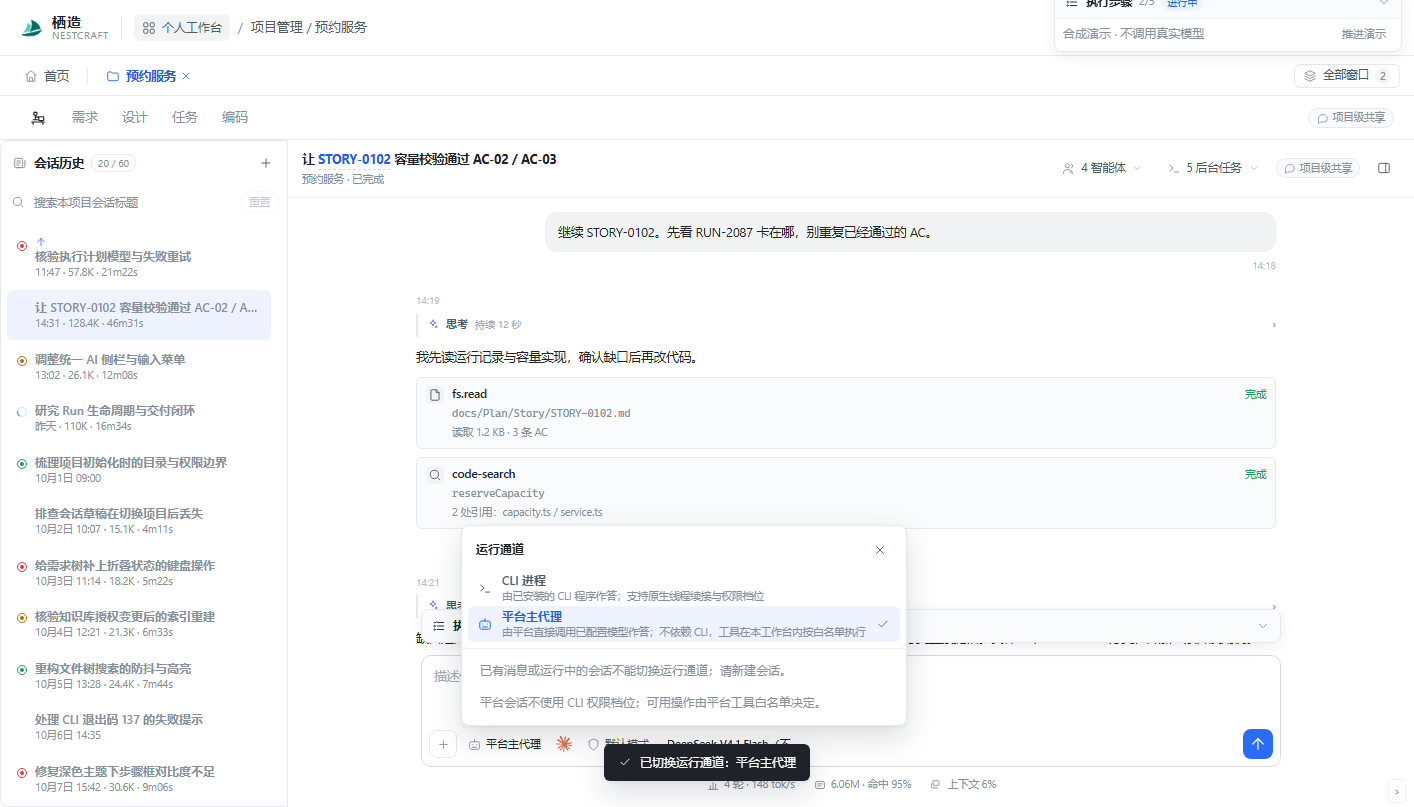
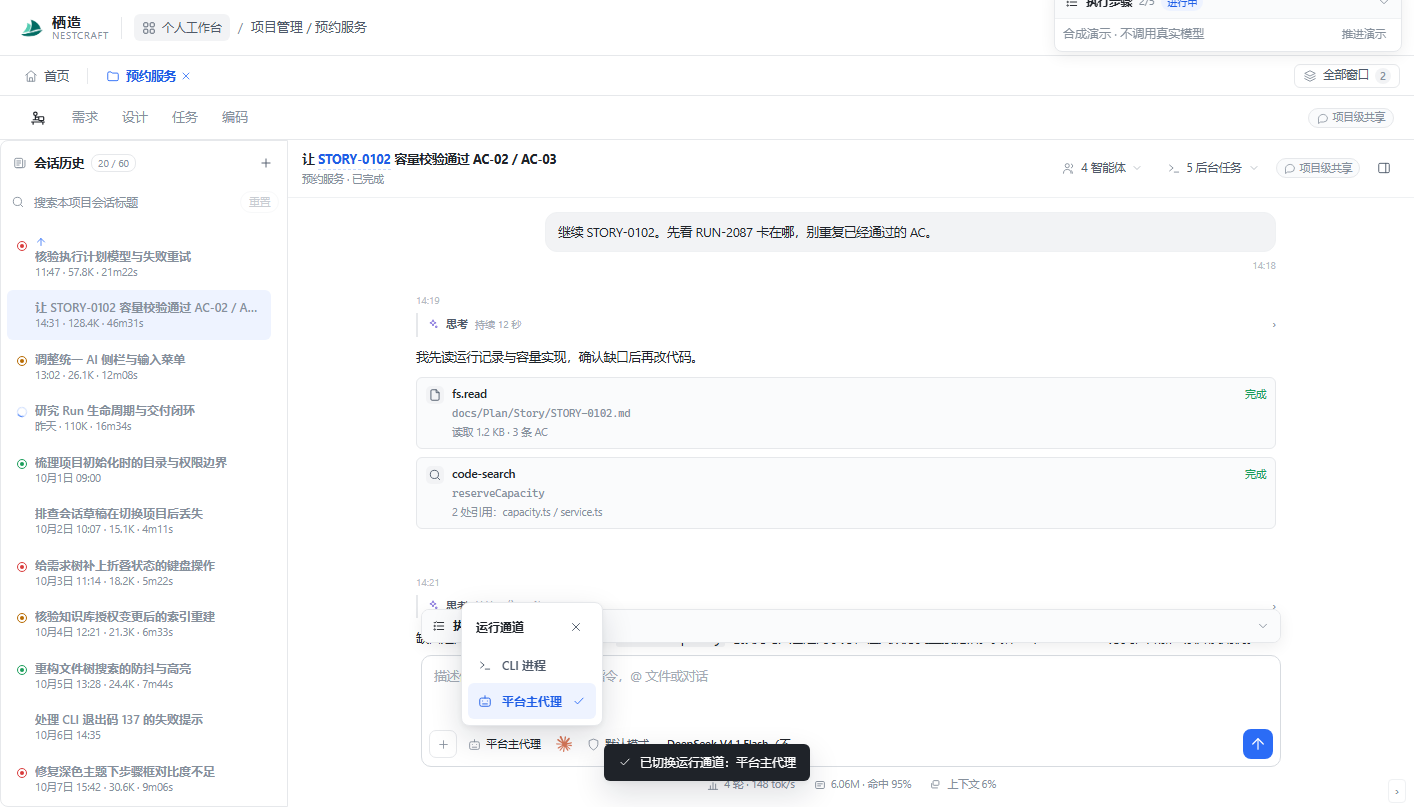
design(UI-CR069-v2): 用户确认并要求去除弹层说明文字——修订设计并重拍截图
- 弹层只保留通道名/选中态/禁用态；平台不可用仅标「不可用」+ 设置入口，无长文案
- 重拍 4 张截图覆盖弹层默认/平台选中/不可用/深色
- 准入文档与资源索引更新 v2 版本、hash 与确认记录（含前端编码授权依据）

Changed region(s): [[0.3423, 0.6506, 0.6223, 0.9294]]

diff --git a/docs/UI/文档/设计资源索引.html b/docs/UI/文档/设计资源索引.html
@@ -16,7 +16,7 @@
 <div class="shell">
 <aside aria-label="设计资源导航"><strong>项目设计</strong><a class="nav active" href="#current">当前评审</a><a class="nav" href="#requirements">需求与方案</a><a class="nav" href="#tasks">任务工作台</a><a class="nav" href="#results">交付与证据</a><a class="nav" href="#history">历史设计</a><a class="nav" href="../../README.md">返回文档导航</a></aside>
 <main>
-<section id="cr069" class="hero"><span class="tag">UI-CR069-v1 · 仅设计 · 待用户确认</span><h2>运行通道选择（CLI 进程 / 平台主代理）</h2><p>2026-11-23 补 CR-069 会话通道设计：AI 侧栏输入区新增「运行通道」chip 与弹层，默认 <b>CLI 进程</b>；「平台主代理」由平台直接调用已配置模型作答，不依赖 CLI 安装，工具在本工作台内按白名单执行。覆盖 SC-069-01（选择与状态：默认/已选/平台不可用禁用+引导/运行中锁定/切换限制说明）、SC-069-02（无平台模型时引导 设置 → 模型供应商，不出现「请先安装 CLI」）、SC-069-03（平台会话下 CLI 与权限模式 chip 禁用并注明边界由平台工具白名单决定；模型候选取消按 CLI 协议过滤）。<b>SC-069-07 长会话上下文仍未定义</b>；本轮仅设计资源，正式前端未改，用户确认前前端开发维持阻塞。资源指纹（sha256 前16）：cr069.js 05a022c8340f390f、cr069.css 23c0d669e95e1ab9、ai.js 6d1c37183c9de8d0、workbench.js 2092f407dd50eb56、index.html 824ecb920d1f7846；headless Edge 实拍 6 状态截图见 UI-CR069-截图/。</p><div class="actions"><a class="btn primary" href="../仿真原型UI.html">唯一原型入口 → AI 侧栏 → 运行通道</a><a class="btn" href="UI-CR069-平台主代理会话准入.md">版本、场景与准入</a><a class="btn" href="../../PRD/CR-069-平台主代理运行时与受管执行接入.md">需求与边界</a><a class="btn" href="../../LLD/LLD-CR069-平台主代理运行时实现.md">实现方案</a><a class="btn" href="../../Plan/Feature/FEAT-025-平台主代理运行时.md">FEAT-025</a></div></section>
+<section id="cr069" class="hero"><span class="tag">UI-CR069-v2 · 设计已确认 · 前端实现中</span><h2>运行通道选择（CLI 进程 / 平台主代理）</h2><p>2026-11-23 用户确认并要求去除说明文字（v2）。补 CR-069 会话通道设计：AI 侧栏输入区新增「运行通道」chip 与弹层，默认 <b>CLI 进程</b>；「平台主代理」由平台直接调用已配置模型作答，不依赖 CLI 安装，工具在本工作台内按白名单执行。覆盖 SC-069-01（选择与状态：默认/已选/平台不可用禁用+引导/运行中锁定/切换限制说明）、SC-069-02（无平台模型时引导 设置 → 模型供应商，不出现「请先安装 CLI」）、SC-069-03（平台会话下 CLI 与权限模式 chip 禁用并注明边界由平台工具白名单决定；模型候选取消按 CLI 协议过滤）。<b>SC-069-07 长会话上下文仍未定义</b>；本轮仅设计资源，正式前端未改，用户确认前前端开发维持阻塞。资源指纹（sha256 前16）：cr069.js 98d281ce163e7693、cr069.css fd6dad065de3559c（v2 去说明文字）、ai.js 6d1c37183c9de8d0、workbench.js 2092f407dd50eb56、index.html 824ecb920d1f7846；headless Edge 实拍 6 状态截图见 UI-CR069-截图/。</p><div class="actions"><a class="btn primary" href="../仿真原型UI.html">唯一原型入口 → AI 侧栏 → 运行通道</a><a class="btn" href="UI-CR069-平台主代理会话准入.md">版本、场景与准入</a><a class="btn" href="../../PRD/CR-069-平台主代理运行时与受管执行接入.md">需求与边界</a><a class="btn" href="../../LLD/LLD-CR069-平台主代理运行时实现.md">实现方案</a><a class="btn" href="../../Plan/Feature/FEAT-025-平台主代理运行时.md">FEAT-025</a></div></section>
 <section id="cr068" class="hero"><span class="tag">UI-CR068-v1 · 仅需求／设计 · 部分已验证</span><h2>界面评审差异与会话可用性</h2><p>2026-11-23 的30项评审：模型获取单列复选框、思考关闭隐藏参数、全量折叠映射、K/M容量、供应商保存收起、设置右上X与右侧按钮组、CLI折叠/候选、项目当前图标、有序消息/思考/工具、计划默认折叠并贴输入上方、固定输入与统计复用。静态核查确认配置刷新、协议选路、计划语义等缺口；第二轮发送、示例文件失效和SSH等待仍待复现。<strong>仅更新设计稿，正式软件未修复；完整状态与软件视觉未验证</strong>，不以多数断言或截图放行全部范围。</p><div class="actions"><a class="btn primary" href="../仿真原型UI.html">唯一原型入口</a><a class="btn" href="UI-CR068-界面评审差异与会话可用性.md">版本与场景覆盖</a><a class="btn" href="../../PRD/CR-068-界面评审差异与会话可用性补正.md">完整30项</a><a class="btn" href="../../Test/REPORT-CR068-界面评审诊断与设计验证.md">诊断与实际验证</a><a class="btn" href="../../LLD/LLD-CR068-分特性修复工作包.md">待授权工作包</a></div></section>
 <section id="feat004" class="hero"><span class="tag">UI-FEAT-004-v1 · 已接入只读 · 待验收</span><h2>同步批次（只读）</h2><p>2026-11-23 双向同步 M0 已具备共同基线、批次、条件写回、崩溃对账与行级差异；补任务页「同步」视图：空态、批次列表、目标对账（冲突／已应用／待应用）、当前与提案两栏差异、冲突横幅。软件已接入并读取 `sync_batch_list/get` 与 `sync_target_preview`；「重新对账」可用，「完成并发布基线」禁用。1440 与 390 对照完成，修复窄屏目标列表被压缩；深色、真实 Tauri 数据与自动合并未验证。</p><div class="actions"><a class="btn" href="../sync-batches/index.html">设计稿</a><a class="btn" href="UI-FEAT-004-同步批次.md">版本、场景与资源 hash</a><a class="btn" href="../../Test/REPORT-FEAT004-同步视图只读接入验证.md">接入验证与未验证项</a><a class="btn" href="../../Plan/Feature/FEAT-004-设计评审与跨文档同步.md">FEAT-004</a></div></section>
 <section id="feat019" class="hero"><span class="tag">UI-FEAT-019-v1 · 已接入只读 · 待验收</span><h2>任务执行状态（只读）</h2><p>2026-11-23 执行账本与同步 M0 已实现，补任务页<b>只读</b>状态设计：空态、批次／任务列表、任务详情与事件时间线、旧 writer 未确认停止的阻塞态、同步第三方冲突态。状态徽章覆盖排队／等待依赖／运行中／验证中／已完成／阻塞／失败；阻塞与冲突均不提供「强制恢复／自动合并」。设计稿浅／深 1440 与窄屏 390 各一张；软件侧 `TasksPane` 已读取执行账本，1440 浅色与 390 窄屏对照完成，差异（真实壳层、窄屏详情抽屉、事件换行）已登记。<b>派发、暂停、审批等控制交互不在本稿范围</b>，深色与真实 Tauri 数据未验证。</p><div class="actions"><a class="btn" href="../task-execution-status/index.html">设计稿</a><a class="btn" href="UI-FEAT-019-任务执行状态.md">版本、场景与资源 hash</a><a class="btn" href="../../Test/REPORT-FEAT019-任务页只读接入验证.md">接入验证与未验证项</a><a class="btn" href="../../Plan/Feature/FEAT-019-依赖调度与受管执行.md">FEAT-019</a><a class="btn" href="../../Plan/Story/STORY-068-单特性执行会话与范围门禁.md">STORY-068</a></div></section>

diff --git a/docs/UI/workbench-v4/cr069.js b/docs/UI/workbench-v4/cr069.js
@@ -54,23 +54,19 @@ window.CR069 = (function () {
     return `<button class="ai-chip runner${isPlatform() ? " platform" : ""}" id="ai-anchor-runner" data-ai-anchor="runner" data-act="ai-runner" aria-haspopup="dialog" aria-controls="ai-popup-runner" aria-expanded="${store.aiPop === "runner"}" ${busy ? 'disabled aria-disabled="true"' : ""} title="${esc(title)}" aria-label="切换运行通道：${esc(label)}">${icon("bot", "ico-14")}${esc(label)}</button>`;
   }
 
-  /* SC-069-01/02/03：运行通道弹层。默认 cli；平台不可用给设置引导，不出现“请先安装 CLI”类误导。 */
+  /* SC-069-01/02/03：运行通道弹层（v2）。默认 cli；按用户要求不在界面上放说明文字——
+     状态只用选中/禁用/「不可用」表达；不可用时保留最小引导入口，不写长文案。 */
   function runnerPopup() {
     const ok = platformAvailable();
     const busy = Boolean(store.aiBusy || store.aiRuntimeBusy);
-    const item = (id, name, desc, enabled) =>
-      `<button class="menu-item ${store.aiRunner === id ? "on" : ""}" data-act="ai-runner-set" data-id="${id}" ${busy || (id === "platform" && !enabled) ? 'disabled aria-disabled="true"' : ""}>${icon(id === "platform" ? "bot" : "terminal", "ico-14")}<span class="mi-main"><b>${esc(name)}</b><span>${esc(desc)}</span></span>${store.aiRunner === id ? `<span class="check">${icon("check", "ico-14")}</span>` : ""}</button>`;
+    const item = (id, name, enabled) =>
+      `<button class="menu-item ${store.aiRunner === id ? "on" : ""}" data-act="ai-runner-set" data-id="${id}" ${busy || (id === "platform" && !enabled) ? 'disabled aria-disabled="true"' : ""}>${icon(id === "platform" ? "bot" : "terminal", "ico-14")}<span class="mi-main"><b>${esc(name)}</b>${id === "platform" && !enabled ? '<span>不可用</span>' : ""}</span>${store.aiRunner === id ? `<span class="check">${icon("check", "ico-14")}</span>` : ""}</button>`;
     return `<div class="ai-pop ai-pop-runner" id="ai-popup-runner" data-ai-popup="runner" role="dialog" aria-label="切换运行通道" tabindex="-1">
       <div class="pop-h">运行通道<button class="icon-btn" data-ai-popup-close="runner" aria-label="关闭运行通道选择">${icon("x", "ico-14")}</button></div>
-      ${item("cli", "CLI 进程", "由已安装的 CLI 程序作答；支持原生线程续接与权限档位", true)}
-      ${item("platform", "平台主代理", ok
-        ? "由平台直接调用已配置模型作答；不依赖 CLI，工具在本工作台内按白名单执行"
-        : "需要先在设置中配置启用的供应商、端点与密钥", ok)}
-      <div class="menu-sep"></div>
-      ${ok ? "" : `<div class="drop-empty" role="note"><b>没有可用的平台模型</b><p>请在 设置 → 模型供应商 中配置启用的供应商、端点与密钥；CLI 通道不受影响。</p></div>
+      ${item("cli", "CLI 进程", true)}
+      ${item("platform", "平台主代理", ok)}
+      ${ok ? "" : `<div class="menu-sep"></div>
       <button class="menu-item" data-act="open-settings" data-tab="provider">${icon("sliders", "ico-14")}打开模型供应商设置</button>`}
-      <div class="menu-note">已有消息或运行中的会话不能切换运行通道；请新建会话。</div>
-      ${isPlatform() ? '<div class="menu-note">平台会话不使用 CLI 权限档位；可用操作由平台工具白名单决定。</div>' : ""}
     </div>`;
   }
 

diff --git a/docs/UI/workbench-v4/cr069.css b/docs/UI/workbench-v4/cr069.css
@@ -6,17 +6,8 @@
   color: var(--accent, var(--brand, currentColor));
 }
 
-/* 弹层内说明行（切换限制 / 平台边界） */
-.ai-pop-runner .menu-note {
-  padding: 6px 12px 8px;
-  font-size: 12px;
-  line-height: 1.5;
-  color: var(--muted, var(--text-2, inherit));
-}
-
-/* 平台不可用时的引导空态 */
-.ai-pop-runner .drop-empty p {
-  margin: 2px 0 0;
+/* 平台不可用：菜单项内的「不可用」副行 */
+.ai-pop-runner .mi-main span {
   font-size: 12px;
   color: var(--muted, var(--text-2, inherit));
 }

diff --git a/docs/UI/文档/UI-CR069-平台主代理会话准入.md b/docs/UI/文档/UI-CR069-平台主代理会话准入.md
@@ -116,15 +116,15 @@
 - [ ] SC-069-07 上下文超限行为已决定并设计（**仍未定义**，平台会话发送不在本稿放行范围）
 - [x] 设计版本与 hash 已登记到 [设计资源索引](设计资源索引.html)（UI-CR069-v1）
 - [x] 覆盖核对完成（新增 SC-069-01/02/03；SC-069-04/05 复用既有工具卡片；SC-069-06/07 明确不在本稿）
-- [ ] 用户已确认设计（本轮为执行者产出，**待用户查看原型确认**；确认前前端仍不得开发）
+- [x] 用户已确认设计（2026-11-23「可以，执行」，并要求去除说明文字 → v2）
 - [x] UI-SCROLL-001 适用场景已登记（见 §6；本稿无新增滚动容器）
 
 **除 SC-069-07 与用户确认外，其余已就绪；在两项完成前前端开发仍处于阻塞状态。**
 
 ## 8. 设计稿 v1 登记（2026-11-23，本 worktree 产出）
 
-- 版本：**UI-CR069-v1**；入口固定 [仿真原型UI.html](../仿真原型UI.html) → workbench-v4（AI 侧栏输入区）。
-- 资源与指纹（sha256 前 16）：`workbench-v4/cr069.js` `05a022c8340f390f`、`workbench-v4/cr069.css` `23c0d669e95e1ab9`、`workbench-v4/ai.js`（挂钩）`6d1c37183c9de8d0`、`workbench-v4/workbench.js`（挂钩）`2092f407dd50eb56`、`workbench-v4/index.html`（引入）`824ecb920d1f7846`。
+- 版本：**UI-CR069-v2**（v1 评审修订：按用户要求去除弹层内全部说明文字，状态只用选中/禁用/「不可用」表达，不可用时仅保留设置入口）；入口固定 [仿真原型UI.html](../仿真原型UI.html) → workbench-v4（AI 侧栏输入区）。
+- 资源与指纹（sha256 前 16）：`workbench-v4/cr069.js` `98d281ce163e7693`、`workbench-v4/cr069.css` `fd6dad065de3559c`、`workbench-v4/ai.js`（挂钩）`6d1c37183c9de8d0`、`workbench-v4/workbench.js`（挂钩）`2092f407dd50eb56`、`workbench-v4/index.html`（引入）`824ecb920d1f7846`。
 - 覆盖位置：AI 侧栏输入区与项目工作台输入区（`workbench.js::composerBlock`）均有运行通道 chip；两处弹层复用同一 `ai-pop` 浮层体系。
 - 设计内容：
   - **SC-069-01 运行通道 chip + 弹层**：输入区新增「运行通道」chip（CLI 进程／平台主代理，两态文案说明差别，不只写代号）；弹层两项可选：CLI 进程（原生线程续接、权限档位）、平台主代理（平台直答、不依赖 CLI、工具按白名单执行）；默认 `cli`，与后端 `migrate_session_runner` 默认一致。
@@ -149,3 +149,4 @@
 | 2026-11-23 | 建立；登记 7 个受影响场景，结论为设计缺失、界面不得开发 | 项目规则 §6.3.1 设计先行 |
 | 2026-11-23 | UI-CR069-v1：产出 SC-069-01/02/03 设计并接入当前原型，登记版本与 hash；SC-069-07 仍未定义，前端开发维持阻塞 | 用户在 CR-069 执行任务中指示「UI 设计也出一下」 |
 | 2026-11-23 | 补项目工作台输入区（workbench.js）的运行通道 chip 与平台态禁用；headless Edge 实拍 6 张设计截图并归档 | 浏览器检查发现项目窗口使用 wb-composer，设计必须两处一致 |
+| 2026-11-23 | **用户确认 v1 并授权执行**；按用户要求出 v2：去除弹层说明文字，重拍 4 张截图；以 v2 为实现基准 | 用户「可以，执行，但是说明文字不要写到平台界面上」——此为 SC-069-01/02/03 的设计确认与前端编码授权 |
